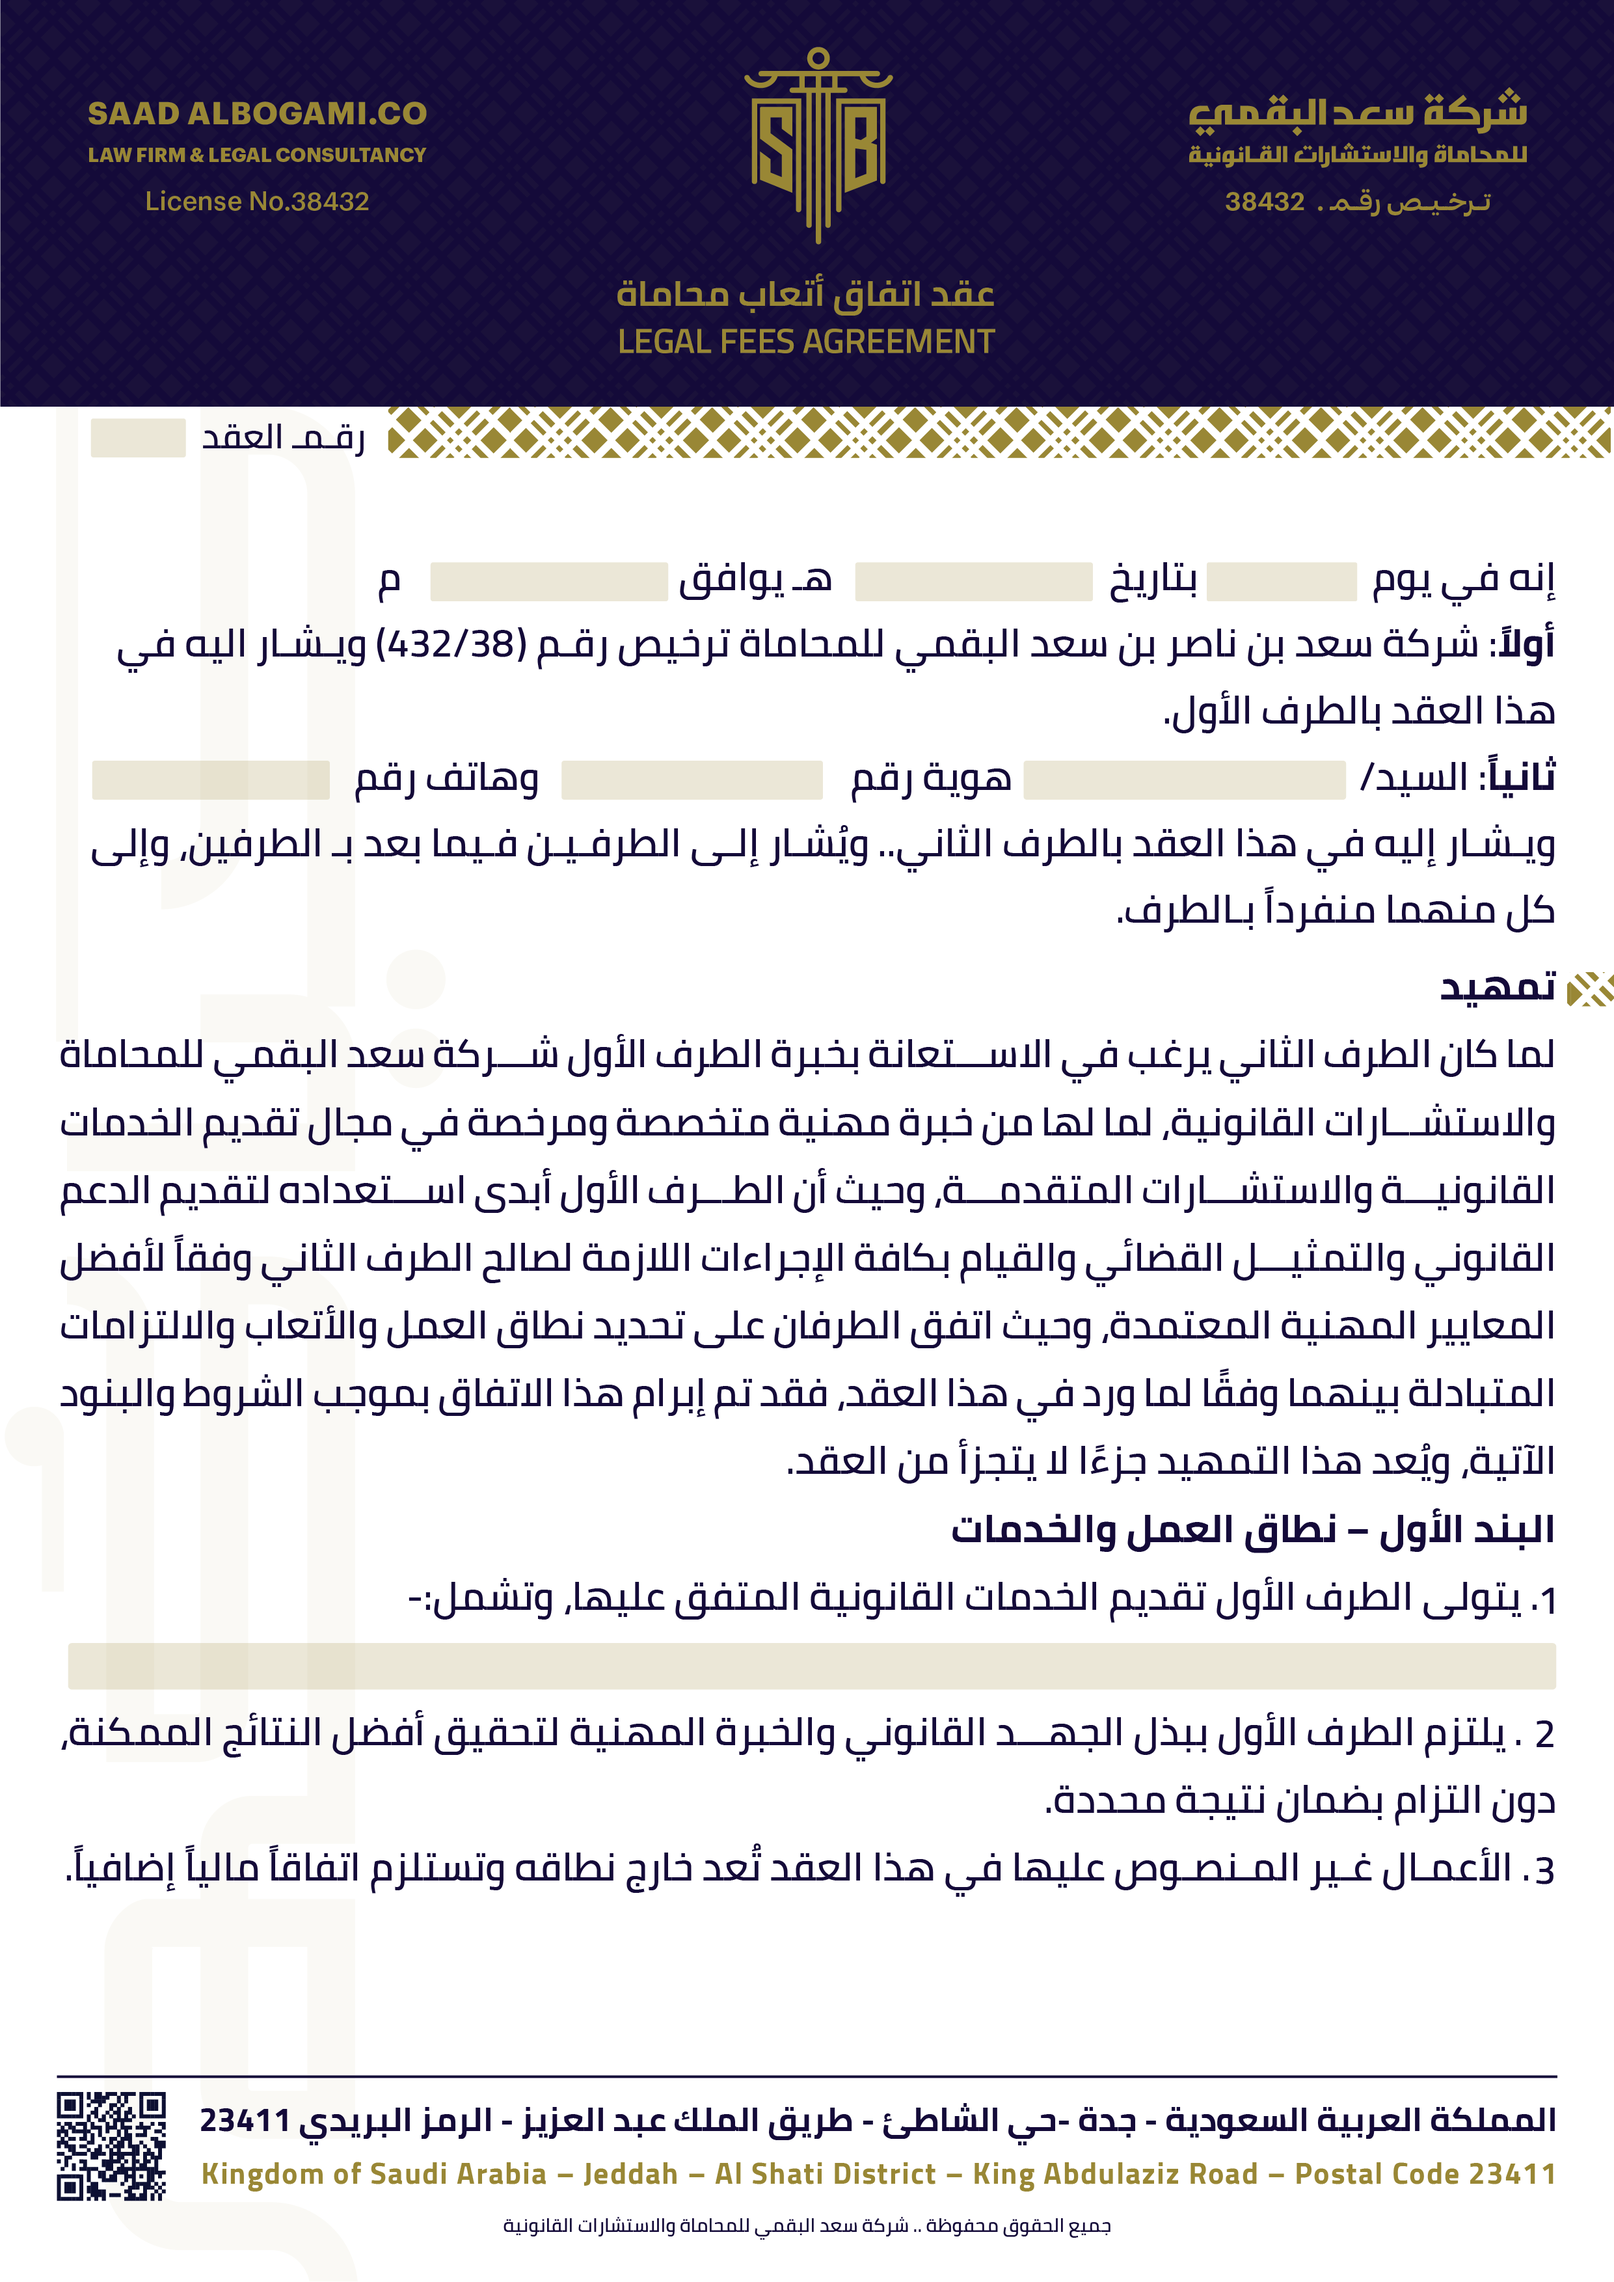
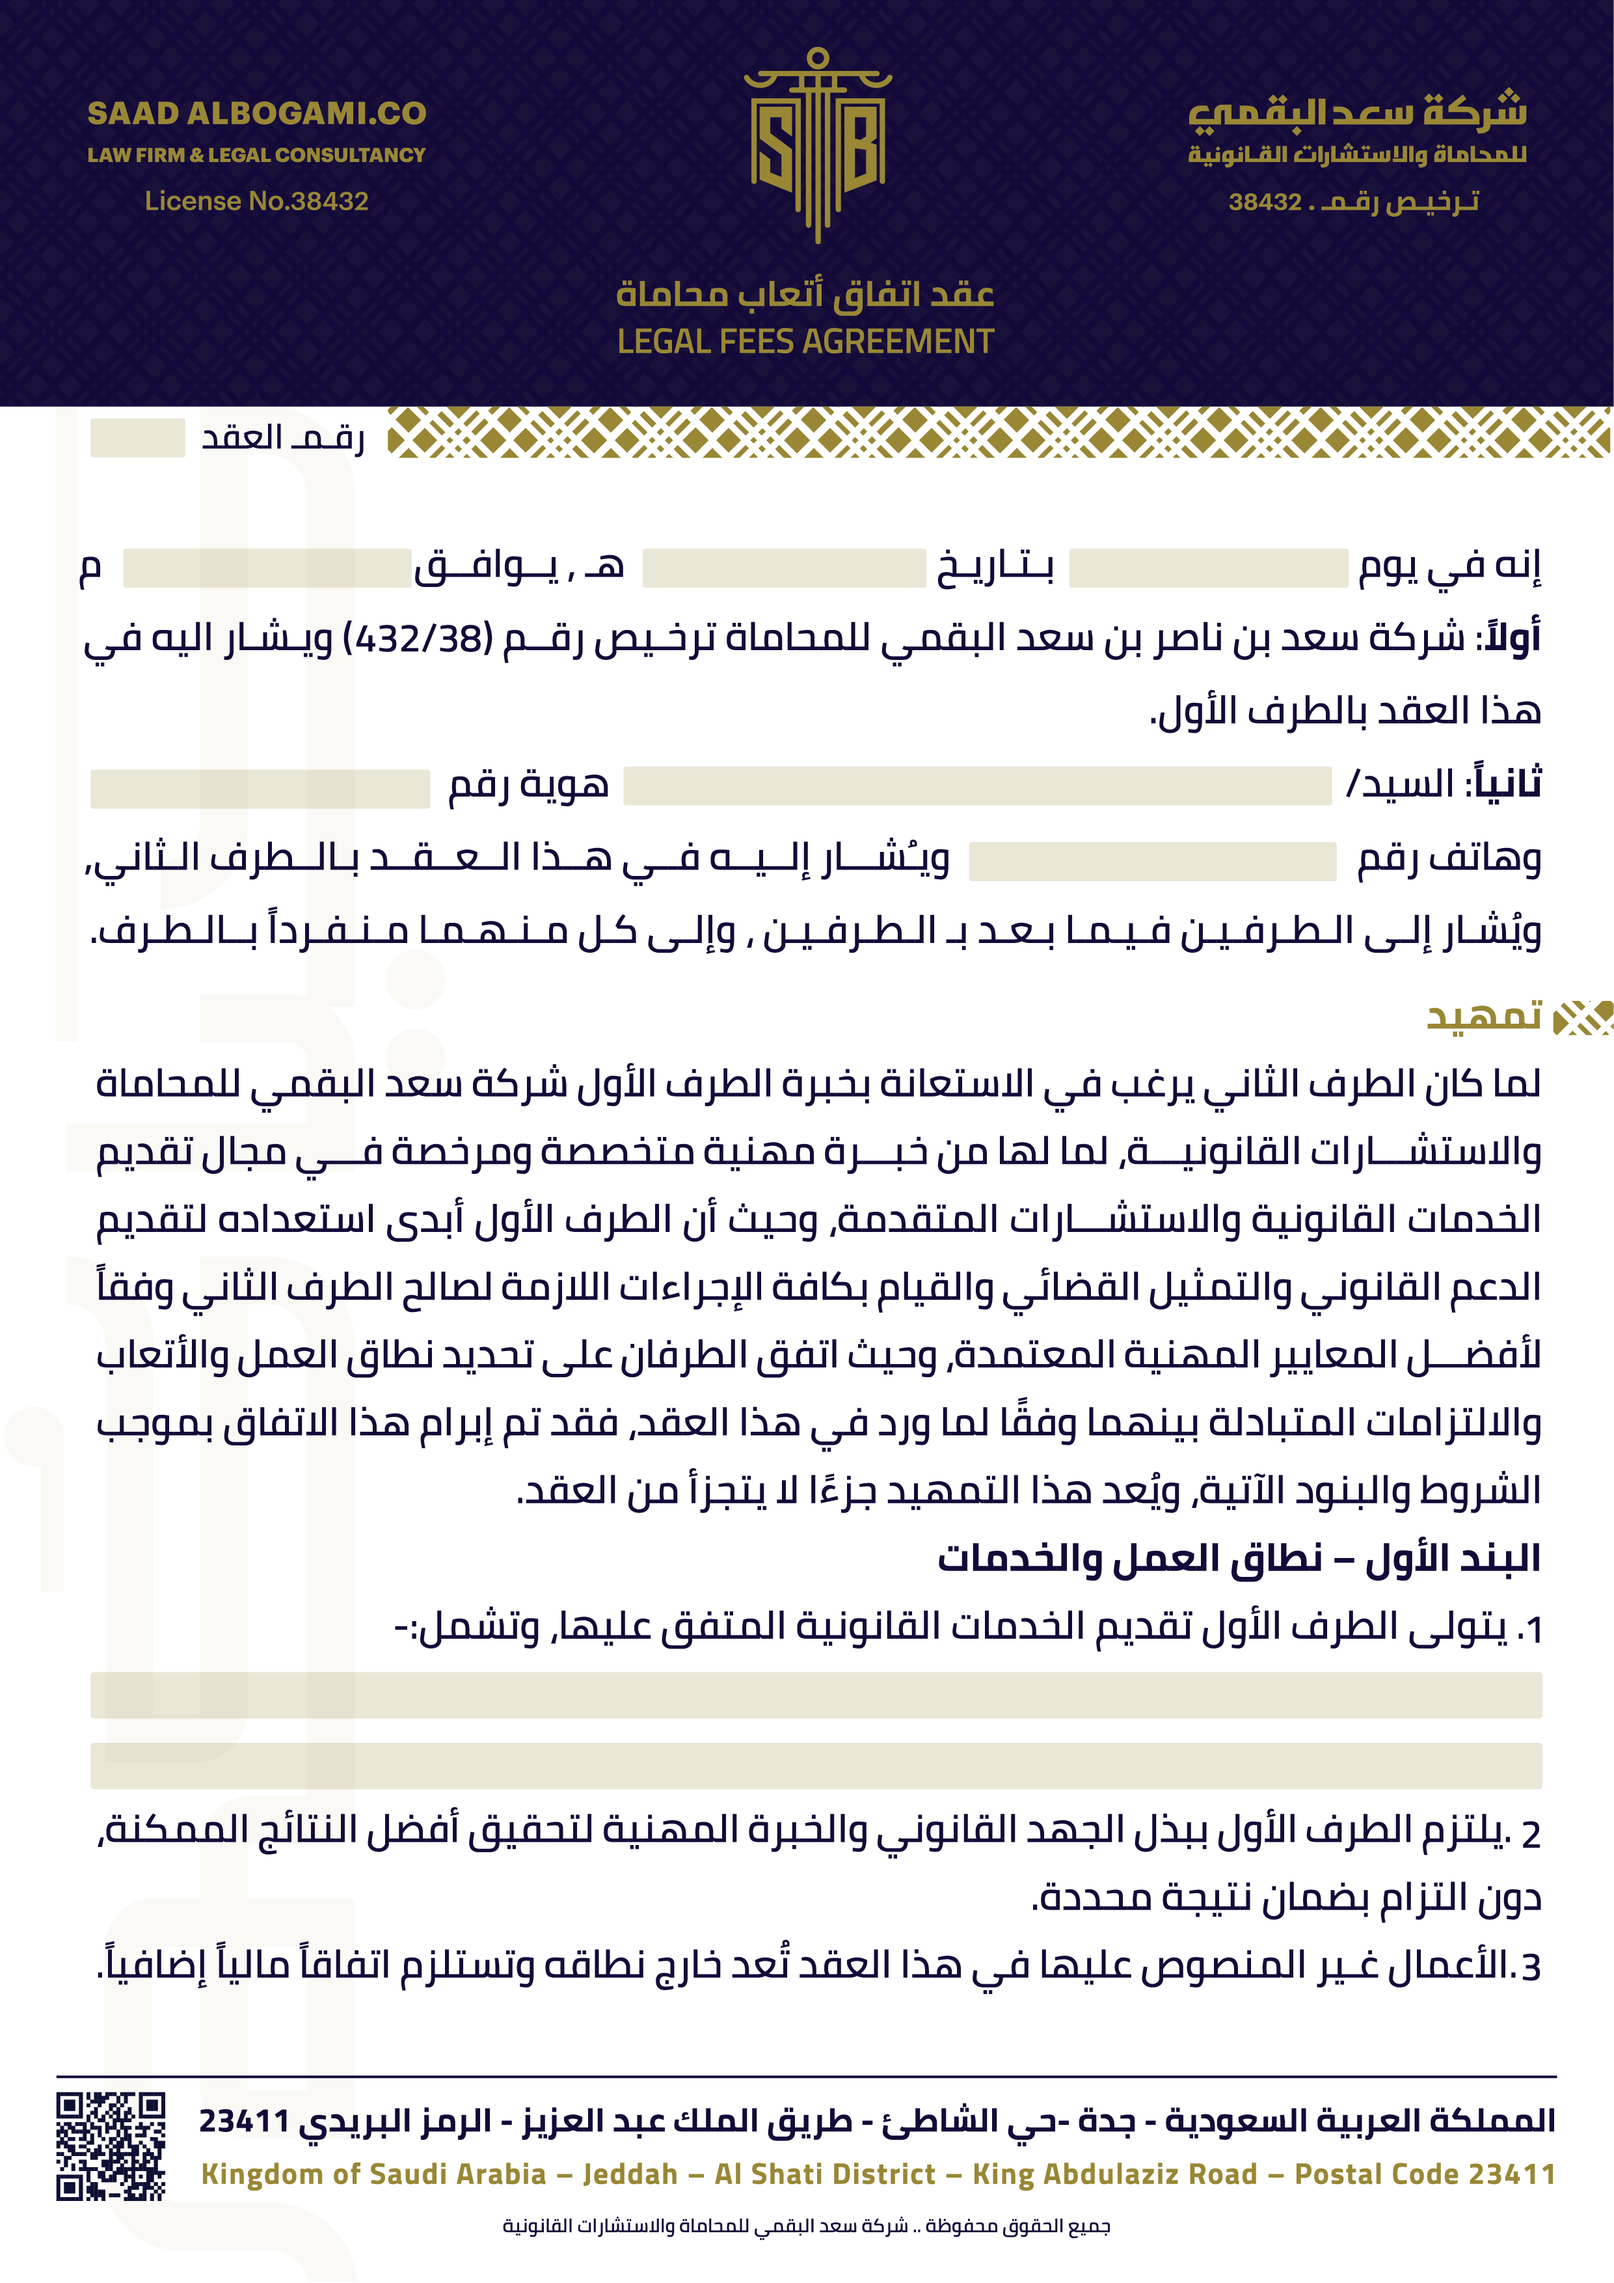
feat(contract-preview): adjust layout and styling for contract fields and improve text handling

diff --git a/src/app/shared/lawyer-fees-contract-preview/lawyer-fees-contract-preview.scss b/src/app/shared/lawyer-fees-contract-preview/lawyer-fees-contract-preview.scss
@@ -59,72 +59,73 @@
 /* Contract number (top-right small slot) */
 .f-contract-number {
   top: 18.22%;
-  left: 5.7%;
+  left: 5.2%;
 
-  width: 6%;
+  width: 7%;
   height: 2%;
   font-size: 1.65cqw;
 }
 
 /* Opening paragraph: "إنه في يوم [day] بتاريخ [date] هـ بوافق [hijri] م" */
 .f-contract-day {
-  top: 24.5%;
-  left: 75%;
-  width: 9%;
+  top: 24%;
+  left: 66.5%;
+  width: 17%;
   height: 1.9%;
 }
 
 .f-contract-date {
-  top: 24.5%;
-  left: 26.6%;
-  width: 14.5%;
+  top: 24%;
+  left: 8%;
+  width: 17.5%;
   height: 1.9%;
 }
 
 .f-hijri-date {
-  top: 24.5%;
-  left: 52.5%;
-  width: 15%;
+  top: 24%;
+  left: 40%;
+  width: 17.3%;
   height: 1.9%;
 }
 
 /* Second paragraph: "ثانياً: السيد/ [name]، هوية رقم [id]، وهاتف رقم [phone]" */
 .f-client-name {
-  top: 33%;
-  left: 63%;
+  top: 33.4%;
+  left: 38%;
   font-size: 1.6cqw;
-  width: 21%;
+  width: 45%;
   height: 2.1%;
 }
 
 .f-client-id {
-  top: 33%;
-  left: 35%;
-  width: 16%;
+  top: 33.5%;
+  left: 5.5%;
+  width: 21%;
   height: 2.1%;
 }
 
 .f-client-phone {
-  top: 33%;
-  left: 6%;
-  width: 14.5%;
+  top: 36.7%;
+  left: 60%;
+  width: 23%;
   height: 2.1%;
 }
 
 /* Service / scope of engagement (free-text strip above البند الأول). Tune visually. */
 .f-service-description {
-  top: 71.9%;
-  left: 4.5%;
-  width: 92%;
+  top: 72.8%;
+  left: 5.5%;
+  width: 90%;
+  max-height: 5.5%;
   font-size: 1.9cqw;
   font-weight: 800;
   text-align: center;
-  white-space: pre-wrap;
+  word-break: break-word;
   display: block;
-  padding: 0.4% 1%;
+  overflow: hidden;
   align-items: flex-start;
   justify-content: flex-start;
-
+  line-height: 2.35;
 }
 
 /* ============ PAGE 2 — fees overlays (original positions) ============ */
@@ -171,7 +172,7 @@
 .f-other-fees {
   top: 32%;
   left: 5%;
-  width: 90%;
+  width: 89%;
   height: 5.5%;
   font-size: 1.75cqw;
   text-align: justify;
@@ -179,10 +180,10 @@
   white-space: pre-wrap;
   word-break: break-word;
   display: block;
-  text-indent: 61%;
+  text-indent: 60.5%;
   // padding: 0.4% 1%; /
   overflow: hidden;
-  line-height: 2.33;
+  line-height: 2.45;
 }
 
 .f-page2-body {
@@ -193,11 +194,11 @@
   bottom: 13%;
   font-size: 1.9cqw;
   font-weight: 600;
-  color: #1A113A;
+  color: #160C3B;
   white-space: pre-wrap;
-  text-align: right;
+  text-align: justify;
   direction: rtl;
-  line-height: 1.7;
+  line-height: 2;
   overflow: hidden;
 }
 
@@ -211,11 +212,11 @@
   bottom: 28%;
   font-size: 2cqw;
   font-weight: 600;
-  color: #1A113A;
+  color: #160C3B;
   white-space: pre-wrap;
-  text-align: right;
+  text-align: justify;
   direction: rtl;
-  line-height: 1.7;
+  line-height: 2;
   overflow: hidden;
 }
 
